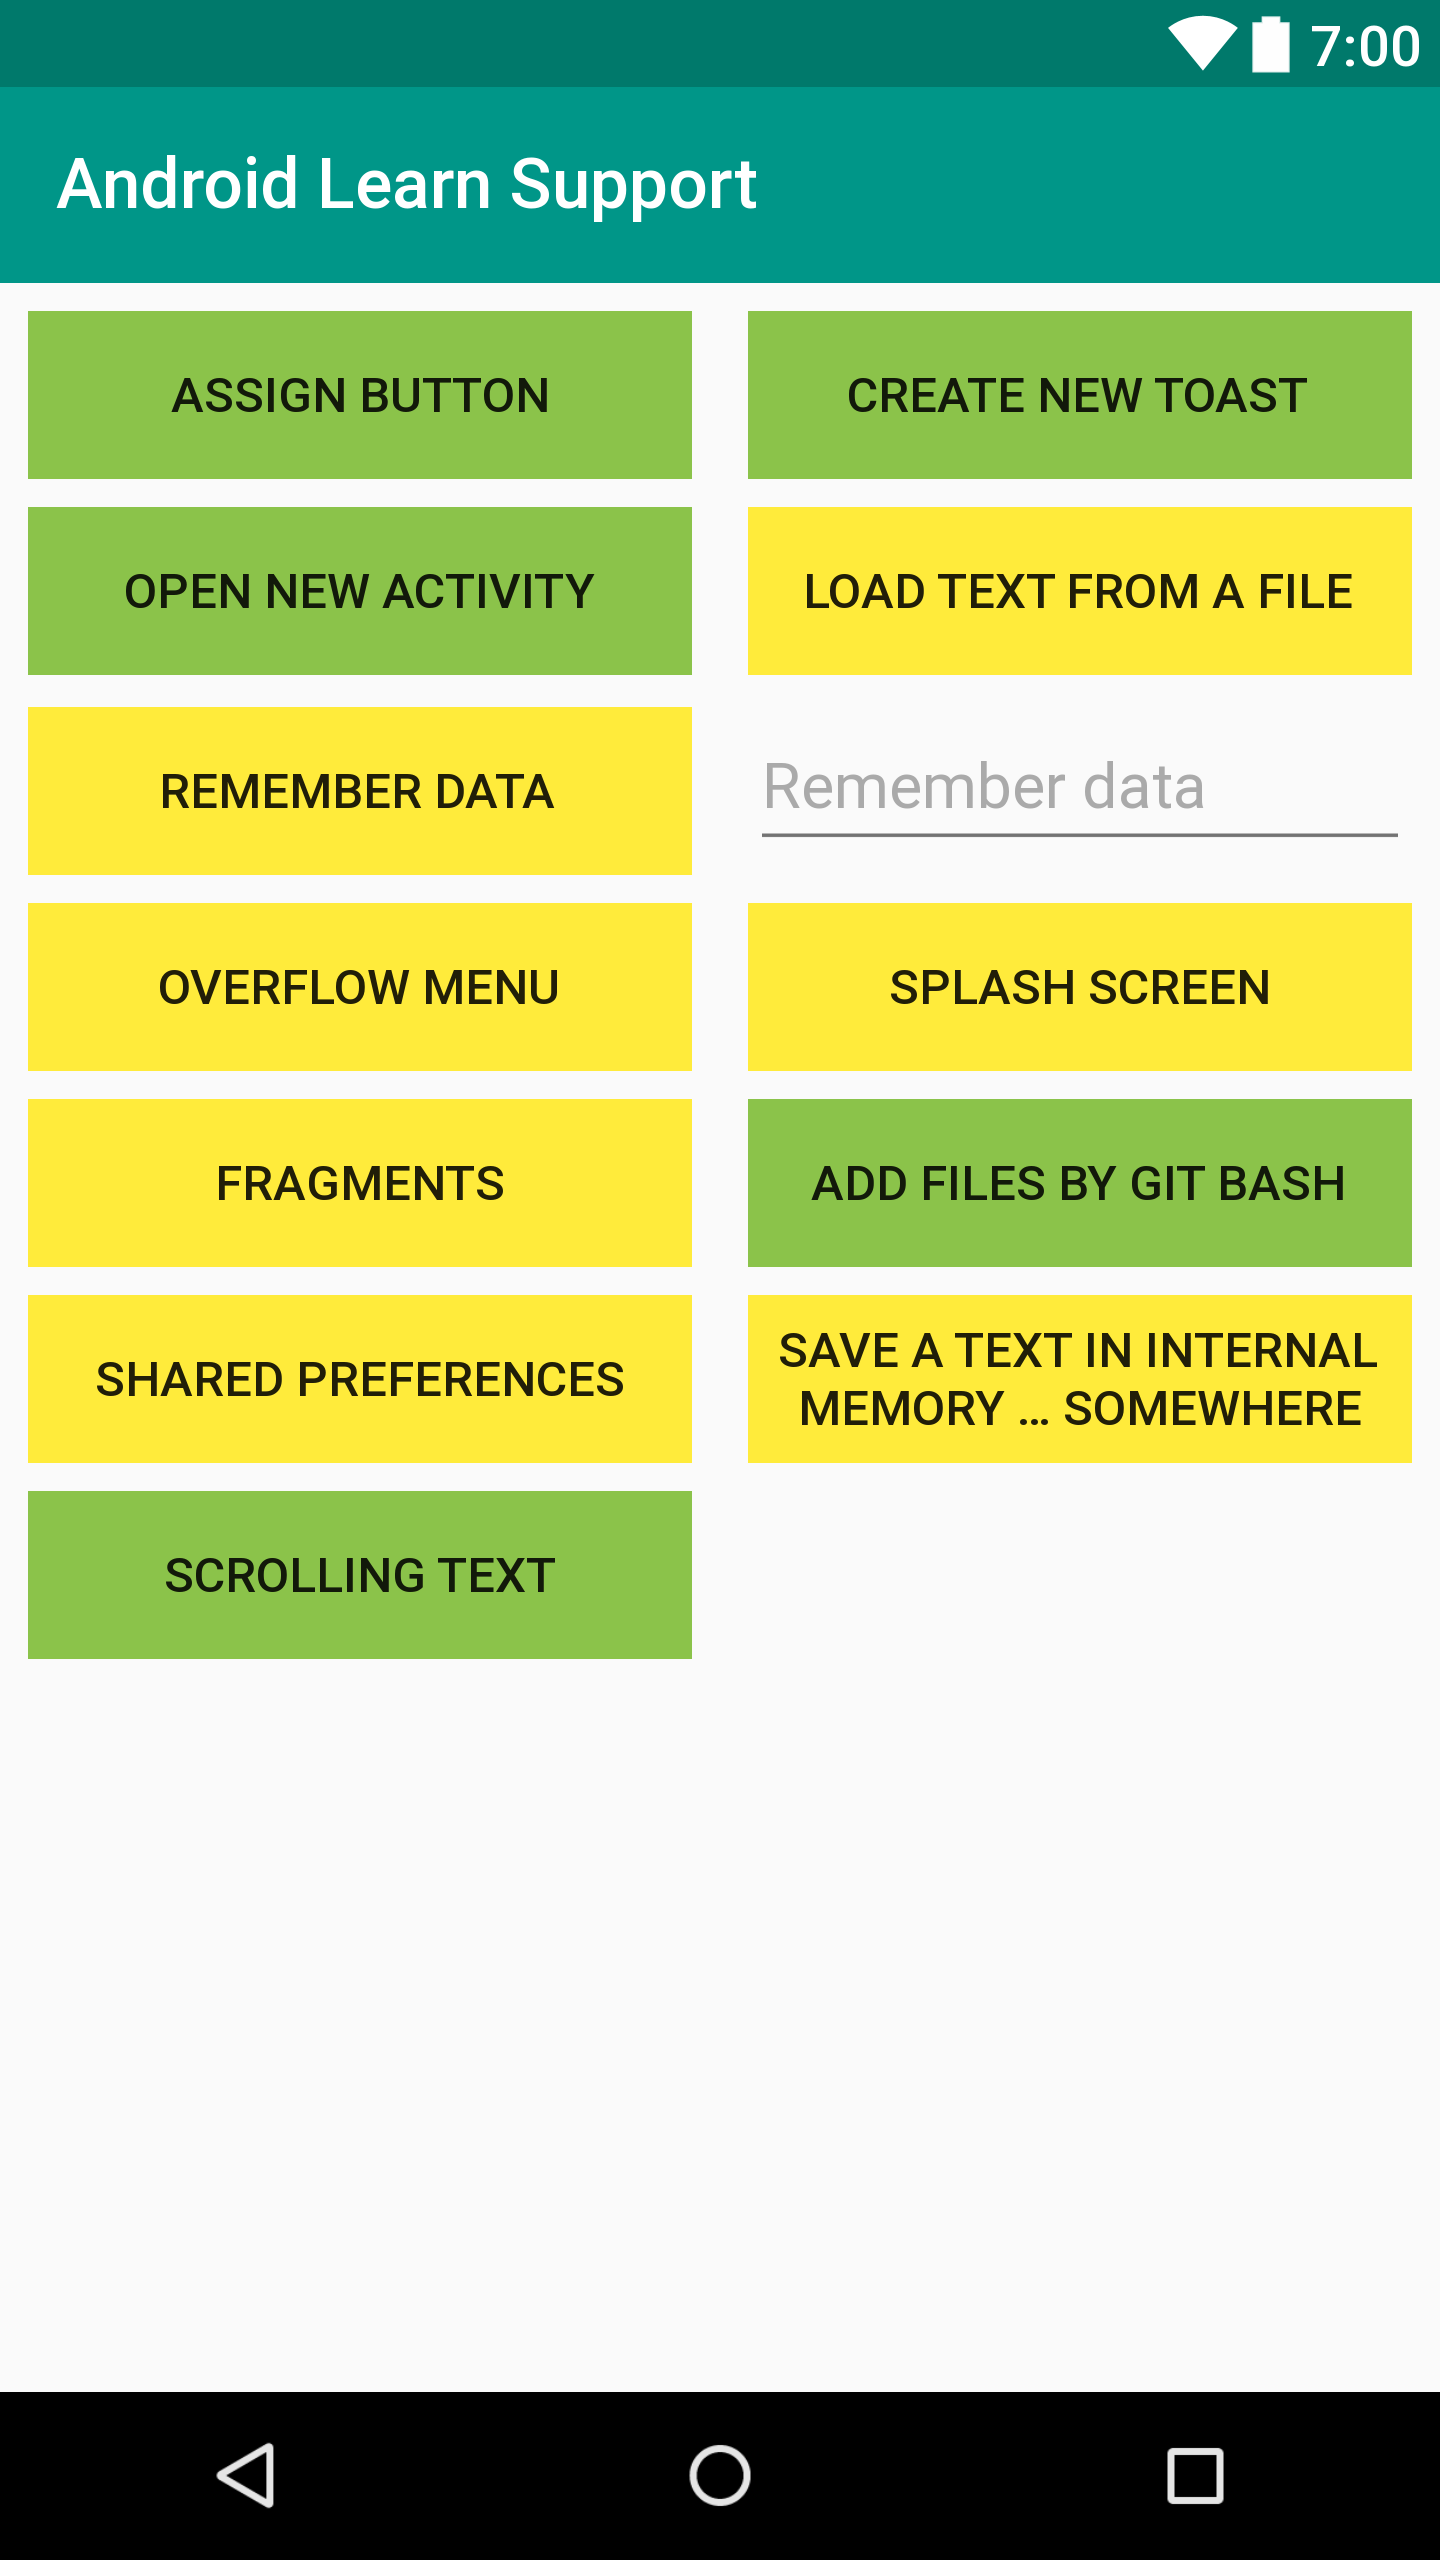
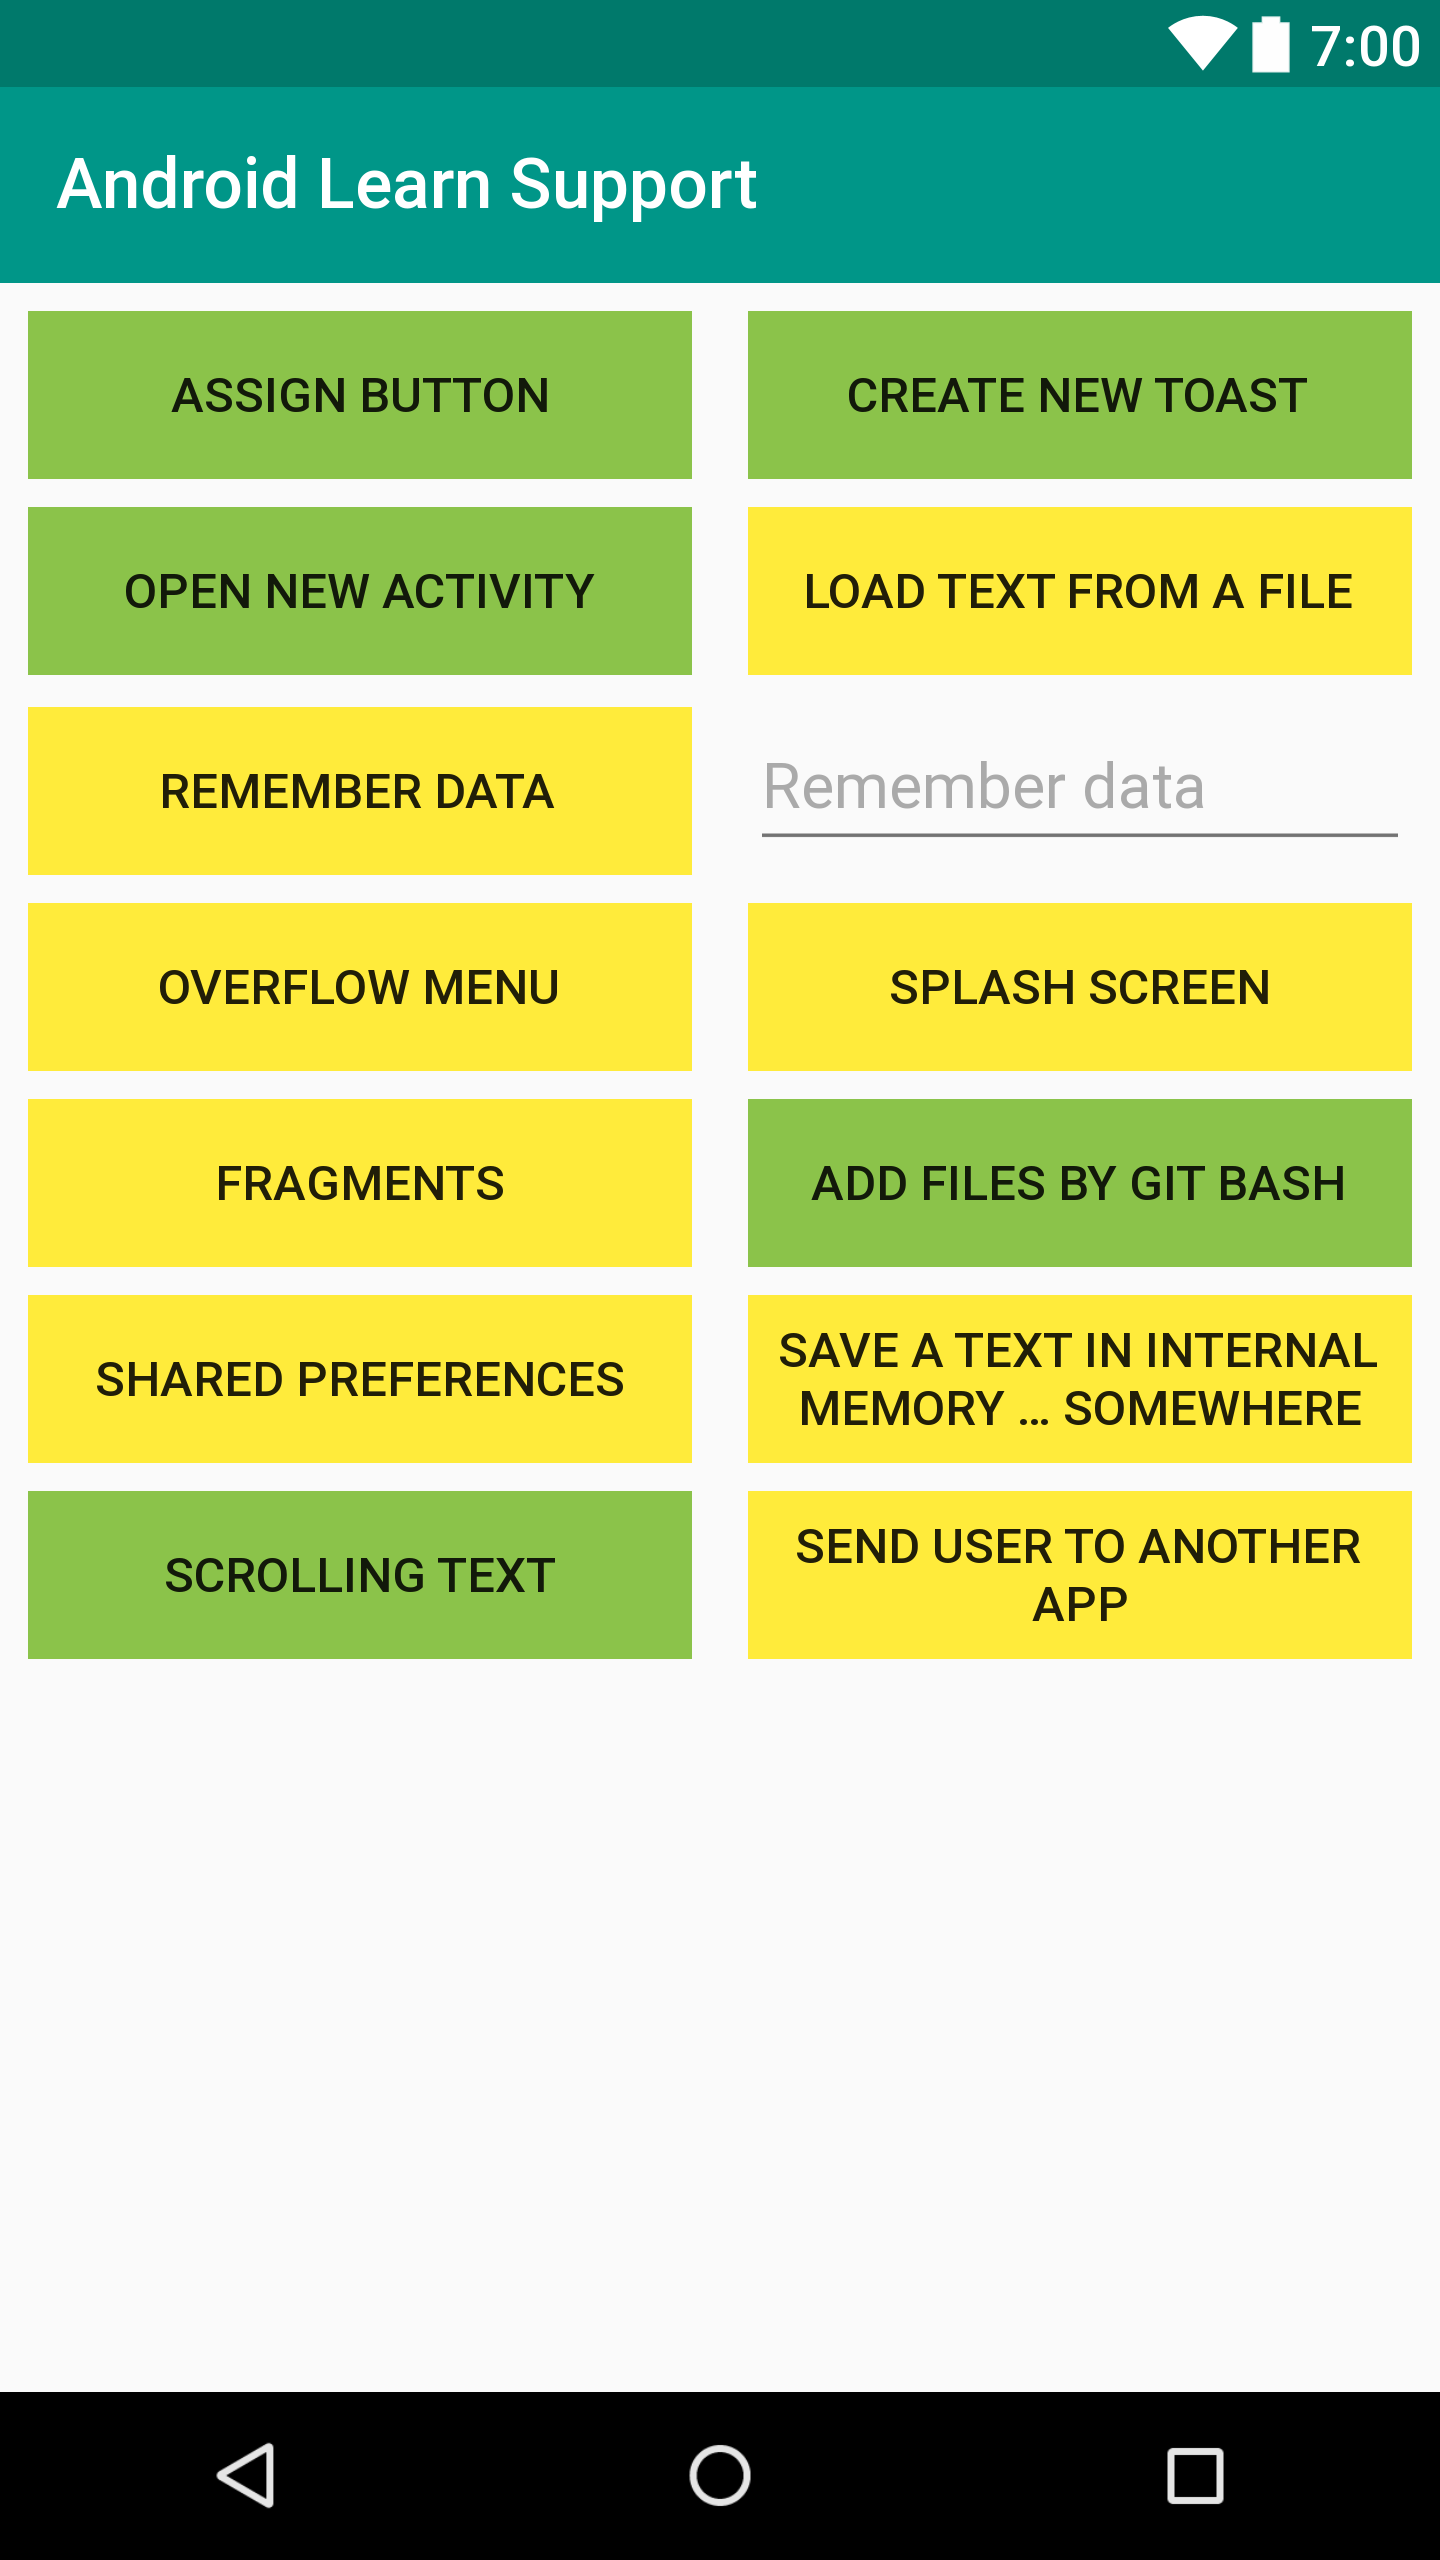
Add activity directed to Google Maps

Changed region(s): [[0.5, 0.5625, 1.0, 0.6562]]

diff --git a/app/src/main/java/com/example/androidlearnsupport/sendingUserToAnotherApp.java b/app/src/main/java/com/example/androidlearnsupport/sendingUserToAnotherApp.java
@@ -1,0 +1,49 @@
+package com.example.androidlearnsupport;
+
+import android.content.Intent;
+import android.content.pm.PackageManager;
+import android.content.pm.ResolveInfo;
+import android.net.Uri;
+import android.support.v7.app.AppCompatActivity;
+import android.os.Bundle;
+import android.view.View;
+import android.widget.EditText;
+import android.widget.Toast;
+
+import java.util.List;
+
+public class sendingUserToAnotherApp extends AppCompatActivity {
+
+    EditText location;
+
+    @Override
+    protected void onCreate(Bundle savedInstanceState) {
+        super.onCreate(savedInstanceState);
+        setContentView(R.layout.activity_sending_user_to_another_app);
+        location = (EditText)findViewById(R.id.mapLocation);
+    }
+
+    public void mapIntent(View view){
+        String locationString = location.getText().toString();
+        if (locationString.equals("")){
+            locationString = "Crewe";
+        }
+        locationString = "geo:0,0?q=" + locationString;
+
+        // Build the intent
+        Uri location = Uri.parse(locationString);
+        Intent mapIntent = new Intent(Intent.ACTION_VIEW, location);
+
+        // Verify it resolves
+        PackageManager packageManager = getPackageManager();
+        List<ResolveInfo> activities = packageManager.queryIntentActivities(mapIntent, 0);
+        boolean isIntentSafe = activities.size() > 0;
+
+        // Start an activity if it's safe
+        if (isIntentSafe) {
+            startActivity(mapIntent);
+        } else {
+            Toast.makeText(this, "There is no application to handle that intent", Toast.LENGTH_SHORT).show();
+        }
+    }
+}

diff --git a/app/src/main/java/com/example/androidlearnsupport/MainMenu.java b/app/src/main/java/com/example/androidlearnsupport/MainMenu.java
@@ -1,6 +1,7 @@
 package com.example.androidlearnsupport;
 
 import android.content.Intent;
+
 import android.support.v7.app.ActionBar;
 import android.support.v7.app.AppCompatActivity;
 import android.os.Bundle;
@@ -9,6 +10,7 @@ import android.view.MenuInflater;
 import android.view.View;
 import android.widget.EditText;
 import android.widget.TextView;
+
 
 public class MainMenu extends AppCompatActivity {
 
@@ -97,4 +99,10 @@ public class MainMenu extends AppCompatActivity {
         Intent scrollingIntent = new Intent(this, scrollingTextView.class);
         startActivity(scrollingIntent);
     }
+
+    public void sendingUserToAnotherApp(View view){
+        Intent sendingIntent = new Intent(this, sendingUserToAnotherApp.class);
+        startActivity(sendingIntent);
+    }
+
 }
